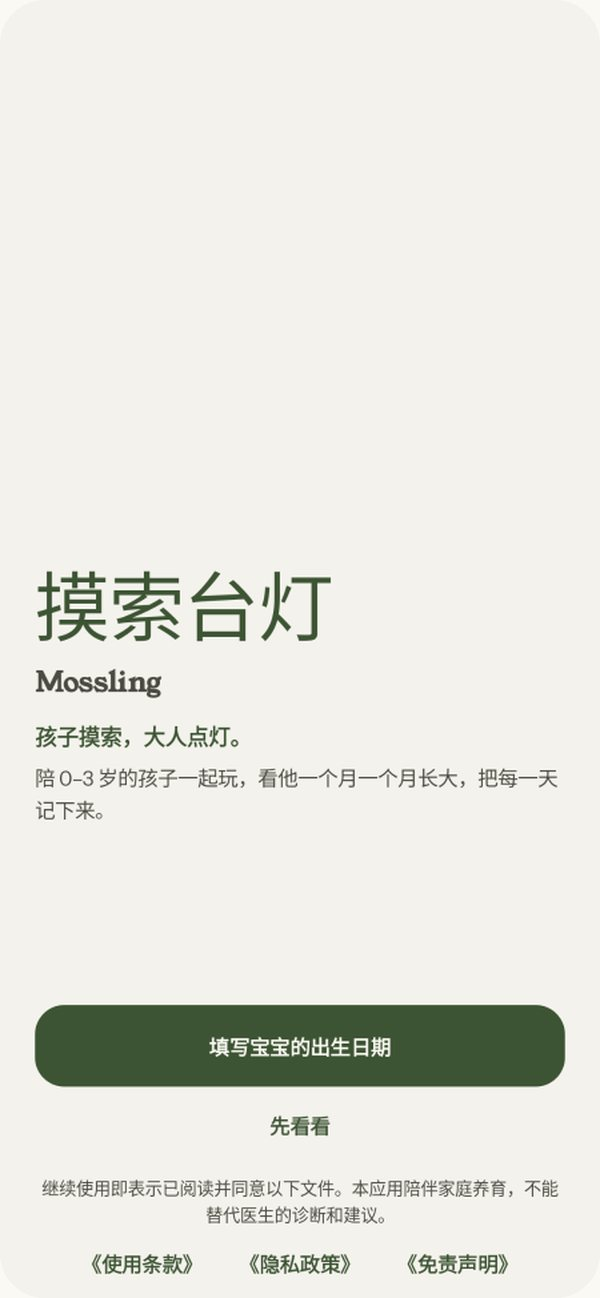
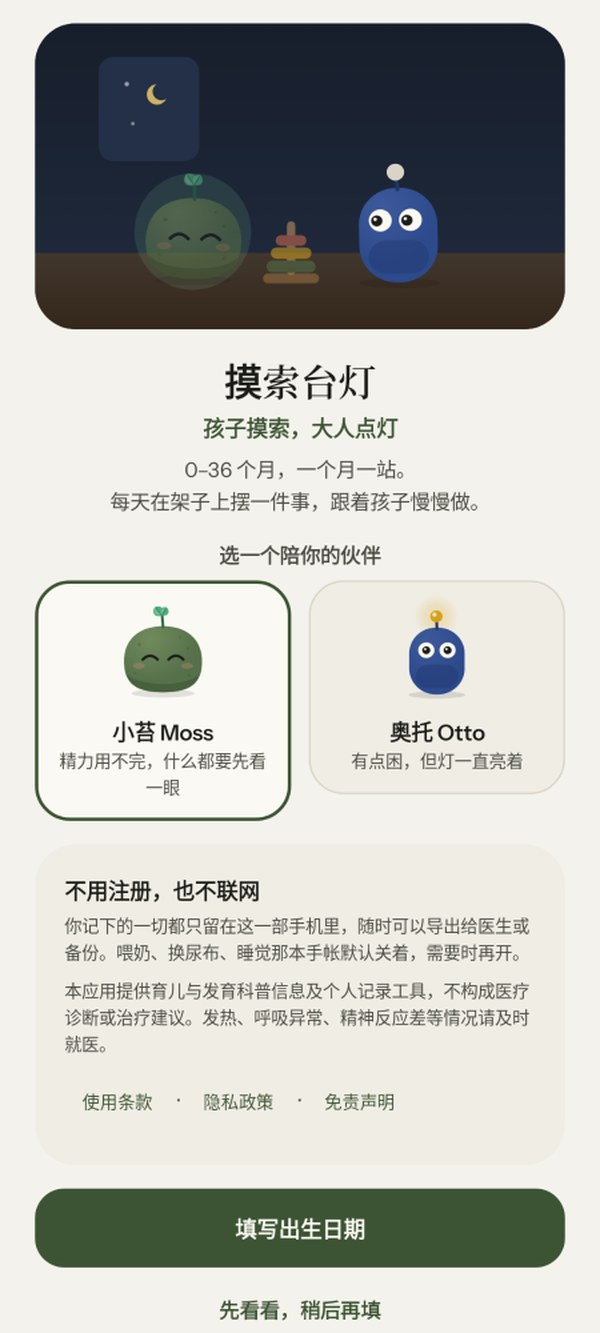
docs: refine README to match IP canon, update Android v1.5.0 screenshots, harden setup.sh

diff --git a/README.md b/README.md
@@ -2,7 +2,7 @@
 
 <p align="center"><img src="docs/images/ios/1_opening.jpg" width="300" alt="摸索台灯：Otto 的灯亮起，Moss 在灯下摸索"></p>
 
-<p align="center"><b>孩子摸索，大人点灯。</b><br>陪 0–3 岁的孩子一起玩、一起长大，把每一天记下来。<br>一次买断 · 无广告 · 不需要账号 · 记录只保存在手机里</p>
+<p align="center"><b>孩子摸索，大人点灯。</b><br>陪 0–3 岁的孩子一起玩、一起长大，把每一天记下来。<br>无广告 · 不需要账号 · 记录只保存在手机里</p>
 
 <p align="center"><a href="https://apps.apple.com/cn/app/%E6%91%B8%E7%B4%A2%E5%8F%B0%E7%81%AF/id6825856138">App Store 下载</a> · <a href="#ios-版">iOS 版</a> · <a href="#安卓版">安卓版</a> · <a href="docs/IP.md">品牌与 IP</a> · <a href="PRIVACY.md">隐私政策</a> · <a href="TERMS.md">使用条款</a> · <a href="DISCLAIMER.md">免责声明</a></p>
 
@@ -13,57 +13,57 @@
 | 名字 | 属于谁 | 含义 |
 |---|---|---|
 | 摸索 | 孩子 | 0–3 岁的孩子用手、用嘴、用眼睛摸索世界。Moss 的名字取自「摸索」，头上的新芽一直在长。 |
-| 台灯 | 大人 | 台灯不替人走路，只把桌面照亮。Otto 头顶的金色灯珠就是这盏灯。 |
+| 台灯 | 大人 | 台灯不替人走路，只把桌面照亮，安静地陪在旁边。Otto 头顶的金色灯珠就是这盏灯。 |
 
 在这里做三件事：
 
 | | 在哪里 | 不做什么 |
 |---|---|---|
-| **一起玩** | **今天一起玩**：每天推荐一个这个月适合的活动，第 1 步的插画一眼可见，点开就是一步步的图文、准备什么、什么时候停下；这周另有两三个备选活动，每周自动轮换 | 不布置任务，不设打卡 |
-| **看他长大** | 0–36 个月，一个月一站，共 37 站；蒙氏串珠链成长地图、成长册、WHO 生长曲线、接种与儿保 | 不比较，不做发育诊断 |
-| **记下来**（可选） | 亲喂、瓶喂、睡眠、尿布、辅食、体温、第一次等一点即记，计时显示在锁屏与灵动岛上；亲喂分侧时长、瓶喂奶量、睡眠统计 | 不上传，不需要账号 |
+| **一起玩** | **今天一起玩**：每天推荐一个这个月可以摸索的活动，第 1 步的图画一眼可见，点开就是准备什么、一步步怎么玩、什么时候停下；这周另有两三个活动可换，每周自动更新 | 不布置任务，不设打卡和连续天数 |
+| **看他长大** | 0–36 个月，一个月一站，共 37 站；串珠成长地图、成长册、WHO 生长曲线、接种与儿保 | 不比较孩子，不做发育诊断 |
+| **记下来**（可选） | 亲喂、瓶喂、睡眠、尿布、辅食、体温、第一次等一点即记，计时显示在锁屏与灵动岛上；喂养与睡眠统计 | 不上传任何数据，不需要账号 |
 
 满 36 个月是最后一站，却不是终点：**故事仍在继续。**
 
 ## Moss 与 Otto
 
-两位伙伴不说话，只用眼神和动作陪伴。Moss（摸索）是孩子的好奇心：苔绿色软石，两只眼睛，头顶一片薄荷芽，什么都想先摸一下。Otto（台灯）是大人的陪伴：深蓝色，一只大眼睛，头顶一颗金色灯珠，专注又耐心，Moss 摸到哪里，他就把灯往哪里偏一点。家长可以选任意一位作为主伙伴，两位功能完全相同。完整设定见 [docs/IP.md](docs/IP.md)。
+两位伙伴不说话，只用眼神和动作陪伴。Moss（摸索）是孩子的好奇心：哑光软胶质感的苔绿色圆软石，两只眼睛，头顶细茎与对生薄荷叶，什么都要先看一眼、先凑过去。Otto（台灯）是大人的陪伴：深蓝高圆顶，一只大眼睛，头顶一颗金色灯珠，眼皮很重，却从来不灭灯；Moss 摸到哪里，他就把灯往哪里偏一点。家长可以选任意一位作为主伙伴，两位功能完全相同。完整设定见 [docs/IP.md](docs/IP.md)。
 
 ---
 
 ## iOS 版
 
-为 iPhone 原生构建（SwiftUI，iOS 26 及以上，液态玻璃设计语言 + 3D 哑光软胶画风），**v1.0 已上架 App Store**（一次买断，无广告、无订阅）。[在 App Store 下载](https://apps.apple.com/cn/app/%E6%91%B8%E7%B4%A2%E5%8F%B0%E7%81%AF/id6825856138)。
+为 iPhone 原生构建（SwiftUI，iOS 26 及以上，液态玻璃导航层、纸面内容与哑光软胶三维插画），**v1.0 已上架 App Store**（一次买断，无广告、无订阅）。[在 App Store 下载](https://apps.apple.com/cn/app/%E6%91%B8%E7%B4%A2%E5%8F%B0%E7%81%AF/id6825856138)。
 
 <p align="center">
   <img src="docs/images/ios/1_opening.jpg" width="31%" alt="首次打开：灯亮起，Moss 在灯下摸索">
   <img src="docs/images/ios/2_home.jpg" width="31%" alt="首页：月龄与今天一起玩">
-  <img src="docs/images/ios/3_play.jpg" width="31%" alt="活动：一步步的 3D 软胶插画，Moss 与 Otto 在旁边看">
+  <img src="docs/images/ios/3_play.jpg" width="31%" alt="活动：一步步的插画，Moss 与 Otto 在旁边看">
 </p>
 <p align="center">
   <img src="docs/images/ios/4_month.jpg" width="31%" alt="月份：0–36 个月要点、活动与接种儿保">
-  <img src="docs/images/ios/5_journal.jpg" width="31%" alt="记录：立体贴纸、一天串珠与合并时间线">
-  <img src="docs/images/ios/6_night.jpg" width="31%" alt="夜灯：夜里亲喂左右侧计时">
+  <img src="docs/images/ios/5_journal.jpg" width="31%" alt="记录：贴纸、一天的串珠与时间线">
+  <img src="docs/images/ios/6_night.jpg" width="31%" alt="夜灯：夜里亲喂计时">
 </p>
 
 | 截图 | 说明 |
 |---|---|
-| 首次打开 | 没有文字的三幕开场：Otto 的灯亮起，Moss 在灯下醒来，摸了摸套圈，转头看 Otto。约四秒，只播一次，随时可跳过；开启「减弱动态效果」时静止 |
-| 首页 | 孩子满几个月几天、本月接种与儿保进度，以及核心卡片**今天一起玩**：第 1 步插画一眼可见，支持「换一个」与「这周还有」自动轮换；轻点卡片边缘的 Moss 与 Otto 三次可进入「摸索台灯的故事」 |
-| 活动 | 开始之前（准备与安全）、折叠式逐步 3D 软胶插画（46 个活动、146 幅步骤图）、做的时候看什么、什么时候停下；做完最后一步自动记一次 |
-| 月份 | 0–36 个月 37 站与蒙氏串珠链成长地图：每月关注与留意事项、适龄活动、可以留意清单、接种与儿保（已核对 2026 年国家免疫规划）、六个发展领域与成长册 |
-| 记录（可选） | 立体贴纸一点即记，时间精确到分钟；亲喂左右侧分别计时并自动合并为一顿，支持暂停、换边与撤销；瓶喂精确到 5 毫升；支持锁屏实时活动、灵动岛、桌面小组件与「第一次」里程碑 |
-| 夜灯 | 晚上自动切换为小夜灯：深蓝底、暖琥珀光晕与柔光数字，Otto 的灯珠微亮，夜间减少动态打扰 |
+| 首次打开 | 没有文字的开场：Otto 的灯亮起，Moss 在灯下醒来，摸了摸套圈，转头看 Otto。约四秒，只播一次，随时可跳过；开启「减弱动态效果」时静止 |
+| 首页 | 孩子满几个月几天、本月接种与儿保进度，以及核心卡片**今天一起玩**：第 1 步插画一眼可见，支持「换一个」和这周备选活动；卡片边缘的 Moss 与 Otto 连续点按三次可进入「摸索台灯的故事」 |
+| 活动 | 开始之前（准备与安全）、折叠式逐步插画（46 个活动、146 幅步骤图）、做的时候看什么、什么时候停下；做完最后一步自动记一次 |
+| 月份 | 0–36 个月 37 站与蒙氏串珠链成长地图：每月关注与留意、适龄活动、可以留意清单、接种与儿保（已核对 2026 年国家免疫规划）、六个发展领域与成长册 |
+| 记录（可选） | 一点即记，时间可精确到分钟；亲喂左右侧分别计时并自动合并为一顿，支持暂停、换边与撤销；瓶喂精确到 5 毫升；锁屏实时活动、灵动岛、桌面小组件与「第一次」里程碑 |
+| 夜灯 | 晚上自动变成一盏小夜灯：深蓝底、暖琥珀光与柔光数字，Otto 的灯珠微亮，夜间减少动态打扰 |
 
-**隐私与合规**：完全离线、不联网、不需要账号，不含广告、统计或第三方 SDK；首次打开提供同等权重的「同意 / 不同意」确认卡（不同意仍可浏览全部育儿内容），支持应用内撤回同意、面容 ID 应用锁、iOS 数据保护与本地 JSON/CSV/Markdown 导出。CI 在模拟器测试中持续采集应用进程网络日志（`ios_network.txt`）核查零联网。
+**隐私与合规**：完全离线、不联网、不需要账号，不含广告、统计或第三方 SDK；所有记录只保存在本机，支持面容 ID 应用锁、导出完整备份与随时撤回同意。CI 在模拟器测试中持续记录应用进程的网络活动（`ios_network.txt`）核查零联网。iOS 版法律文件见 [ios/Docs/](ios/Docs/)，合规对照见 [ios/COMPLIANCE.md](ios/COMPLIANCE.md)。
 
-**开发**：`ios/project.yml`（XcodeGen）；CI [`.github/workflows/ios.yml`](.github/workflows/ios.yml) 运行单元测试、截图测试（含 6.9 英寸 App Store 截图产物）、无障碍审查与滚动性能测试，并在合入 `main` 时自动上传 TestFlight。设计说明见 [ios/DESIGN.md](ios/DESIGN.md)，合规对照表见 [ios/COMPLIANCE.md](ios/COMPLIANCE.md)，路线图见 [ios/ROADMAP.md](ios/ROADMAP.md)。
+**开发**：`ios/project.yml`（XcodeGen）；CI [`.github/workflows/ios.yml`](.github/workflows/ios.yml) 运行单元测试、截图测试（含 6.9 英寸 App Store 截图产物）、无障碍审查与滚动性能测试，并在合入 `main` 时自动上传 TestFlight。设计说明见 [ios/DESIGN.md](ios/DESIGN.md)，路线图见 [ios/ROADMAP.md](ios/ROADMAP.md)。
 
 ---
 
 ## 安卓版
 
-适用于 Android 8.0 及以上，已更新至 **v1.5.0**（原生 Jetpack Compose + Material Design 3）。[下载最新版本](https://github.com/mjuvdeysii/mossling/releases/latest)。
+适用于 Android 8.0 及以上，当前版本 **v1.5.0**。[下载最新版本](https://github.com/mjuvdeysii/mossling/releases/latest)。
 
 <p align="center">
   <img src="docs/images/android/1_welcome.jpg" width="31%" alt="欢迎页">
@@ -78,14 +78,14 @@
 
 | 截图 | 说明 |
 |---|---|
-| 欢迎页 | 孩子摸索，大人点灯；无字三镜头开场、填写出生日期或先看看 |
-| 本周的架子 | 横向顺滑木质托盘展示本周自动轮换的活动，支持「还没玩过」与六大领域筛选 |
-| 教具 | 46 个蒙台梭利式家庭活动、146 幅分步插画，支持全屏「跟着做」手势翻步与屏幕常亮 |
-| 手帐（可选） | 亲喂分侧计时、瓶喂（精确到 5 毫升）、睡眠、尿布、体温就医提示与「第一次」里程碑；通知栏计时与桌面小组件 |
-| 统计 | 喂养次数、亲喂时长、睡眠与尿布趋势，以及按类别筛选的时间线 |
-| 生长曲线 | 世界卫生组织儿童生长标准（2006），支持「当前阶段 / 0–36 月全貌」切换与交互式点位检视 |
+| 欢迎页 | 孩子摸索，大人点灯；选择主伙伴 Moss 或 Otto，填写出生日期或先看看 |
+| 本周的架子 | 矮架上一次摆三样，每周自动轮换；可按「还没玩过」和六个发展领域筛选更换 |
+| 教具 | 46 个蒙台梭利式家庭活动与 146 幅分步插画，支持全屏「跟着做」逐步翻页与屏幕常亮 |
+| 手帐（可选） | 亲喂分侧计时、瓶喂（精确到 5 毫升）、睡眠、尿布、体温就医提示与「第一次」里程碑；按类别筛选时间线，支持通知栏计时与桌面小组件 |
+| 统计 | 近 7 天 / 近 30 天喂养次数、瓶喂奶量、亲喂时长、睡眠与尿布趋势 |
+| 生长曲线 | 世界卫生组织儿童生长标准（2006），支持当前阶段与 0–36 月全貌切换，点按曲线查看每次测量与百分位 |
 
-此外还有「今天」（照护状态胶囊、今日一件事）、「成长」（本月 / 地图 / 专题三段式工作台、成长册画册与时间轴双模式）与按六大领域发现的搜索页。
+此外还有「今天」（月龄、照护状态、今日一件事）、「成长」（0–36 个月串珠、成长地图、专题与成长册）以及按发展领域浏览的搜索页。
 
 **隐私**：不需要账号，不收集、不上传任何数据；只在用户主动点「检查更新」时联网。
 
@@ -95,7 +95,7 @@
 
 ## 内容依据
 
-育儿内容整理自世界卫生组织、联合国儿童基金会、国家卫生健康委员会、国家疾病预防控制局、中华预防医学会、美国疾病控制与预防中心、美国儿科学会等机构公开发布的指南与资料，在应用内「内容来源」中逐项标明机构、文件名称、发布日期与核对日期。`app/src/main/assets/content.json` 为两个平台共用的内容；`who_growth.json` 由 `tools/export_who.py` 生成；iOS 插画由 `tools/picturebook.py` 生成，安卓插画由 `tools/illustrate.py` 生成。
+育儿内容整理自世界卫生组织、联合国儿童基金会、国家卫生健康委员会、国家疾病预防控制局、中华预防医学会、美国疾病控制与预防中心、美国儿科学会等机构公开发布的指南与资料，在应用内「内容来源」中逐项标明机构、文件名称、发布日期与核对日期。`app/src/main/assets/content.json` 为两个平台共用的内容；`who_growth.json` 由 `tools/export_who.py` 生成；iOS 三维角色与插画由 `tools/ip3d.py` 与 `tools/scene3d.py` 生成（平面绘本画风由 `tools/picturebook.py` 生成），安卓插画由 `tools/illustrate.py` 生成。
 
 ## 制作
 
@@ -103,4 +103,4 @@
 
 ## 说明
 
-本应用陪伴家庭养育，内容仅供参考，不构成医疗诊断或治疗建议。详见《[使用条款](TERMS.md)》《[隐私政策](PRIVACY.md)》《[免责声明](DISCLAIMER.md)》。
+本应用陪伴家庭养育，内容仅供参考，不构成医疗诊断或治疗建议。详见《[使用条款](TERMS.md)》《[隐私政策](PRIVACY.md)》《[免责声明](DISCLAIMER.md)》（iOS 版最新文件见 [ios/Docs/](ios/Docs/)）。
